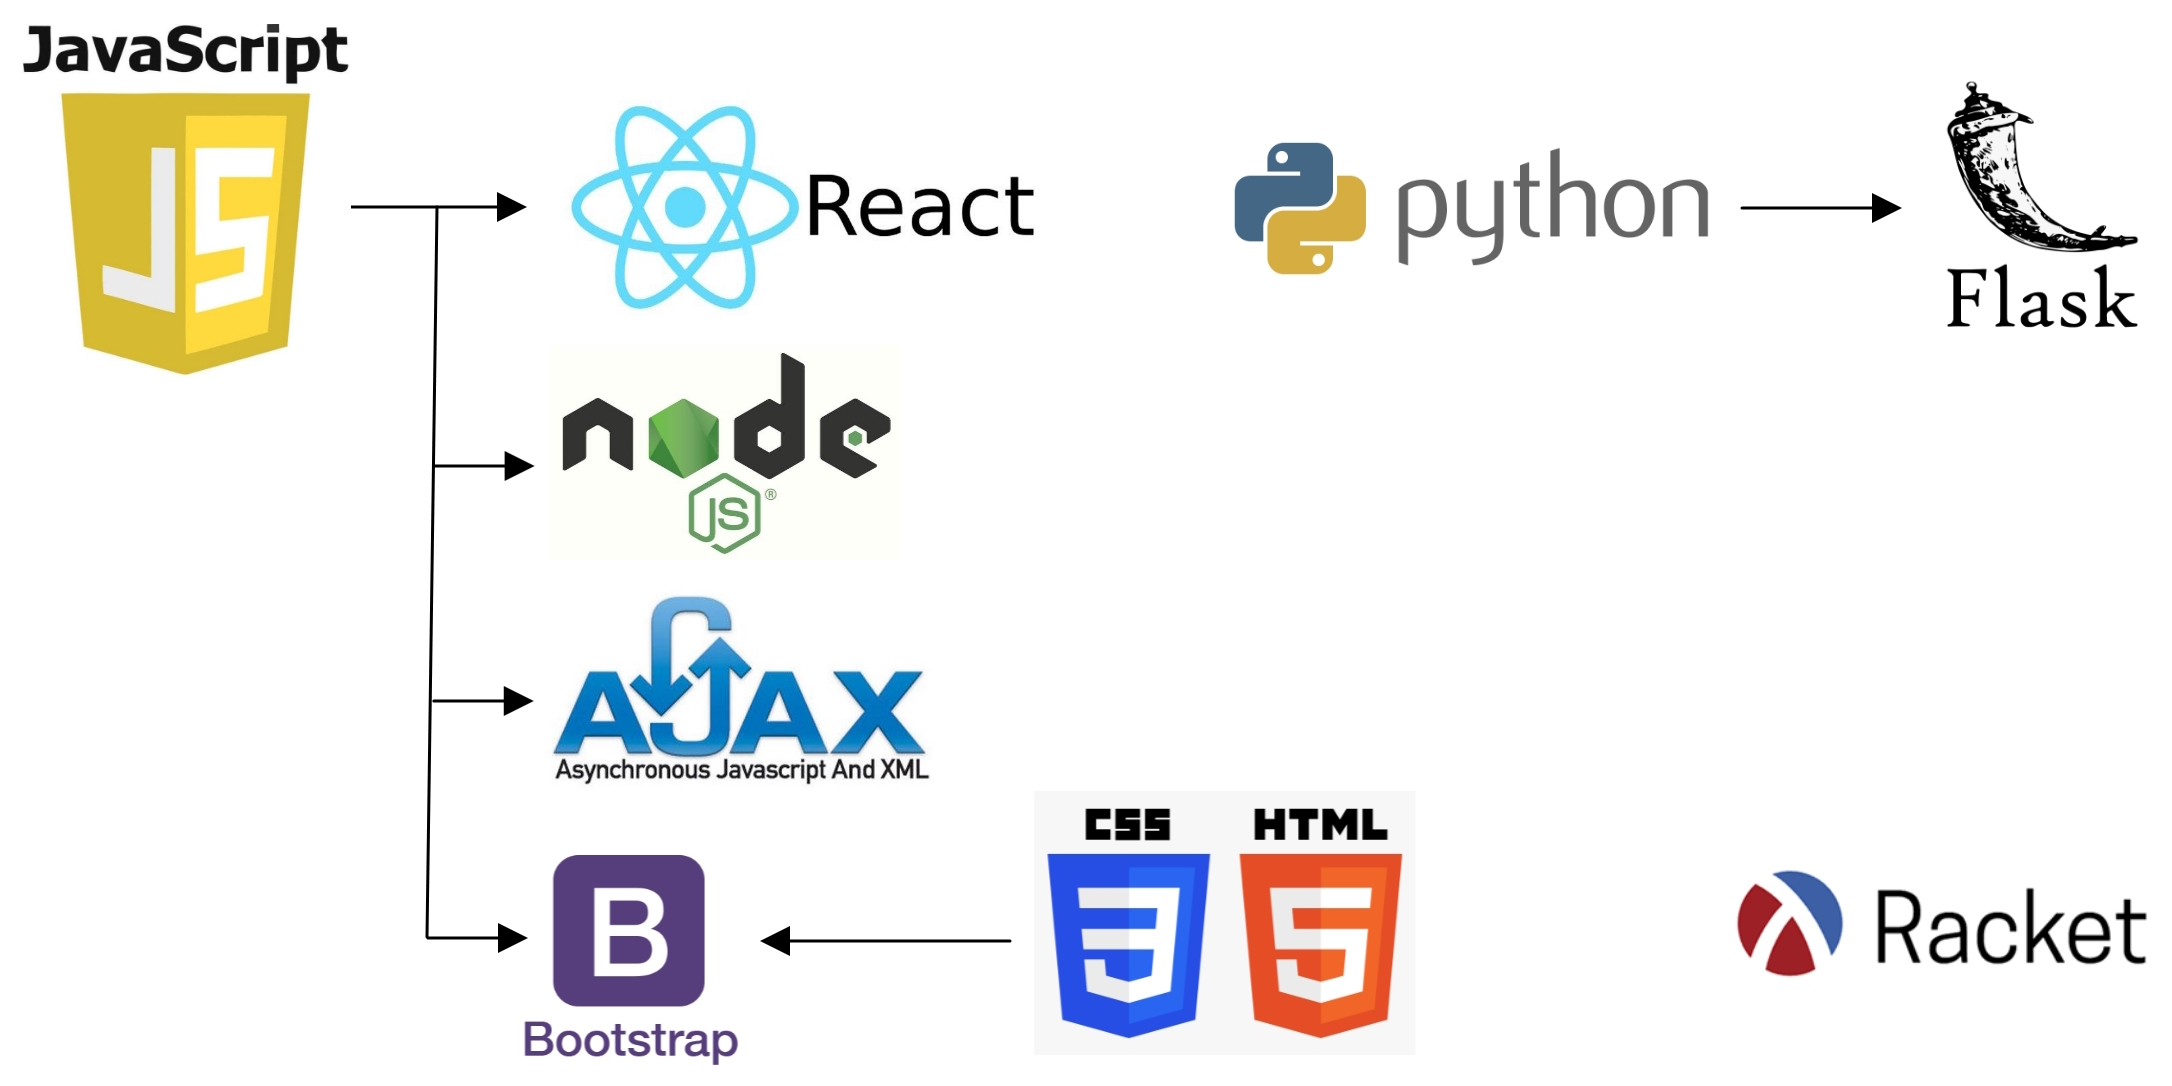
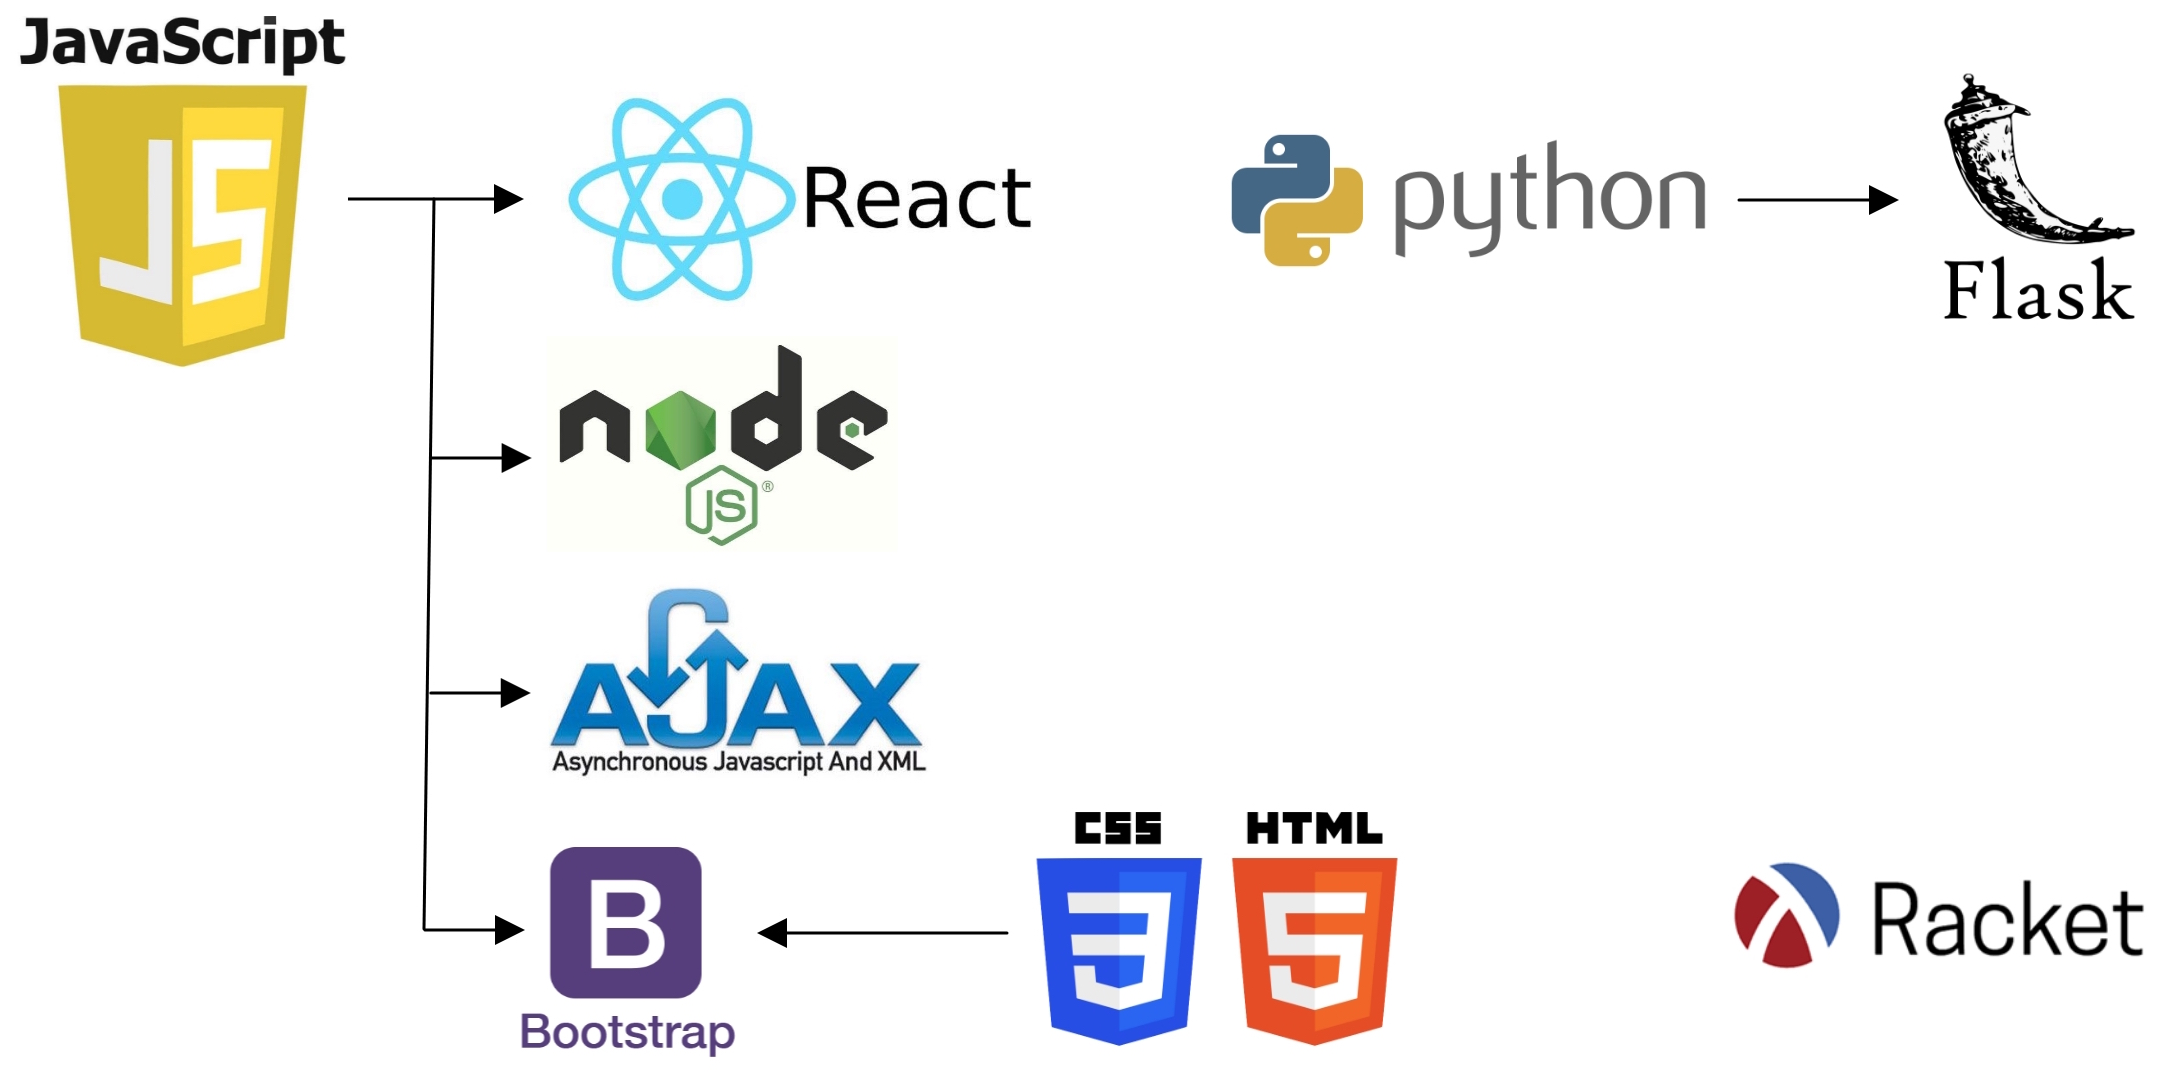
Made images in tech section mobile responsive.

diff --git a/index.html b/index.html
@@ -109,7 +109,11 @@
     <!-- The Tech -->
     <section id="tech" class="container">
       <h2 class="title">- The Tech -</h2>
-      <img src="media/tech.jpg" class="container">
+      <picture>
+        <source media="(min-width: 801px)" srcset="media/tech.jpg">
+        <source media="(max-width: 800px)" srcset="media/tech-mobile.png">
+        <img src="media.tech.jpg">
+      </picture>
     </section>
 
     <!-- Projects -->
@@ -138,8 +142,6 @@
     <section id="contact" class="container">
       <h2 class="title">- Contact -</h2>
       <h5>Build a 'Contact Me' form here...</h5>
-      <p><a href="https://tudublin.ie/study/undergraduate/courses/structural-engineering-tu824/">Structural Engineering at TUD</a></p>
-      <h5>Does this show???</h5>
     </section>
   </body>
 </html>

diff --git a/styles.css b/styles.css
@@ -206,6 +206,10 @@ a:link, a:visited {
   }
 }
 
+#tech picture source, img {
+  max-width: 100%;
+}
+
 #home {
   width: 100%;
   height: 100vh;
